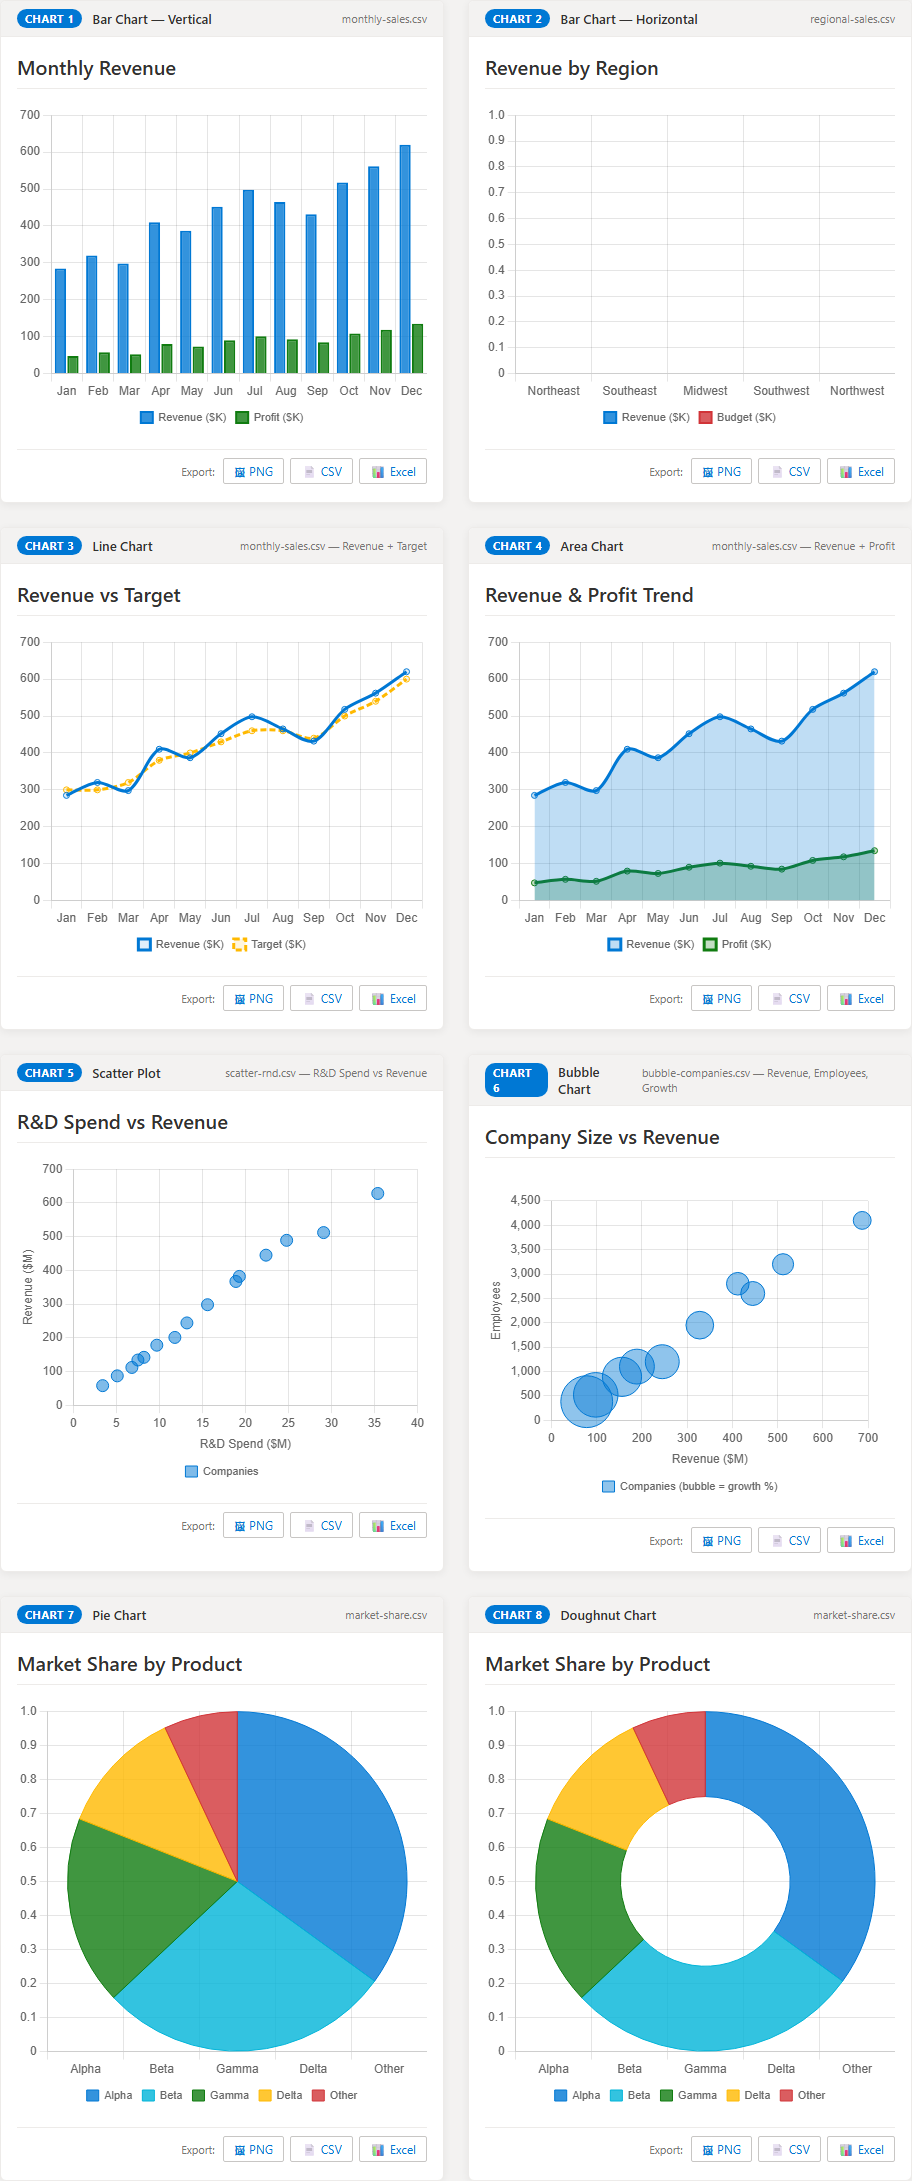
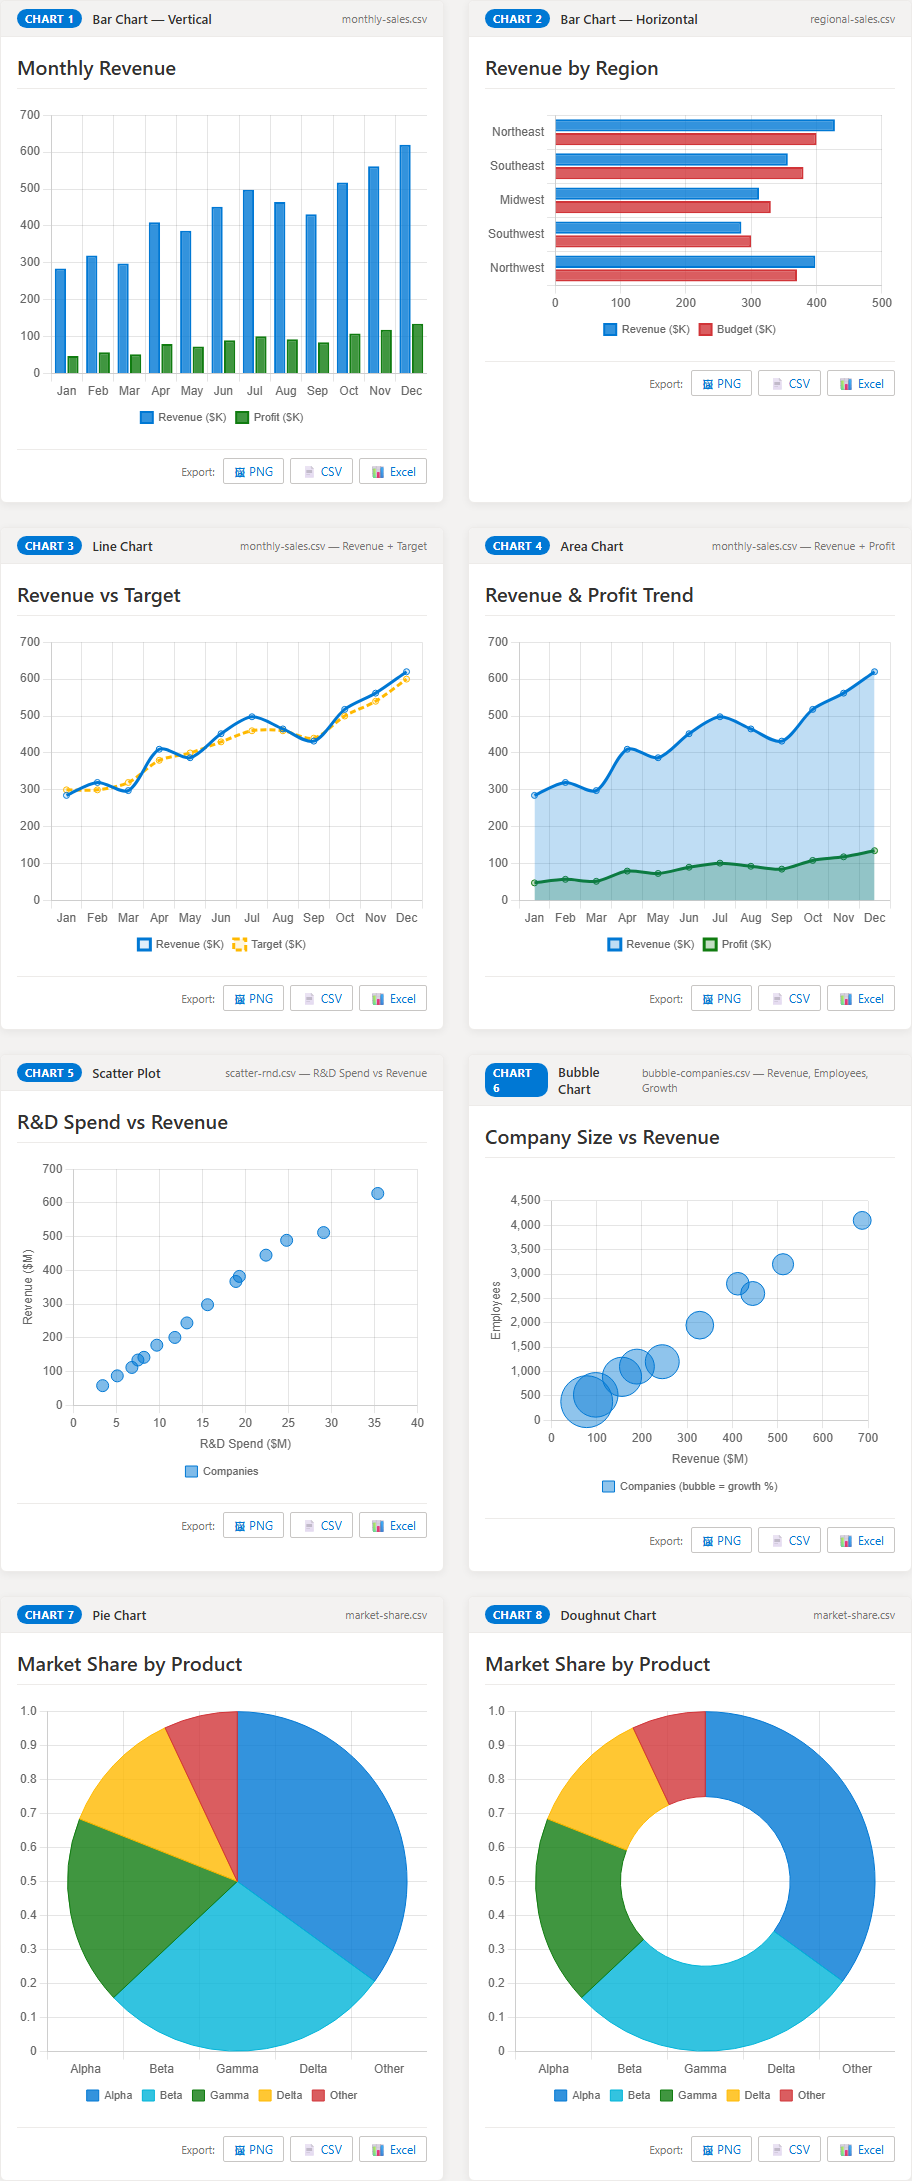
Updated screenshots & README

Changed region(s): [[0.5219, 0.0312, 0.9825, 0.2182], [0.5833, 0.1559, 0.614, 0.1871]]

diff --git a/mockups/screenshot-guide.html b/mockups/screenshot-guide.html
@@ -478,7 +478,7 @@
     </div>
     <div class="webpart">
       <div class="wp-header"><span class="wp-header-text">Revenue by Region</span></div>
-      <div class="chart-container"><canvas id="c-hbar" height="240"></canvas></div>
+      <div class="chart-container" style="position:relative;height:240px;"><canvas id="c-hbar"></canvas></div>
       <div class="export-bar">
         <span class="export-label">Export:</span>
         <button class="export-btn">🖼 PNG</button>
@@ -836,7 +836,16 @@ new Chart(document.getElementById('c-hbar'), {
       { label: 'Budget ($K)',  data: regBud, backgroundColor: c[4]+'cc', borderColor: c[4], borderWidth: 2 },
     ]
   },
-  options: { ...baseOpts, indexAxis: 'y' },
+  options: {
+    responsive: true,
+    maintainAspectRatio: false,
+    animation: false,
+    indexAxis: 'y',
+    plugins: {
+      legend: { position: 'bottom', labels: { boxWidth: 12, font: { size: 11 } } },
+      datalabels: { display: false },
+    },
+  },
 });
 
 // ─── Chart 3: Line ────────────────────────────────────────────────

diff --git a/README.md b/README.md
@@ -44,7 +44,18 @@ A SharePoint Framework (SPFx) web part that renders interactive charts from mult
 
 ---
 
-## Prerequisites
+## Installation (No Build Required)
+
+The pre-built package is included in the repository. To deploy without installing Node.js or building anything:
+
+1. Download `sharepoint/solution/smart-data-visualization.sppkg` from this repository.
+2. Upload it to your **SharePoint App Catalog** (SharePoint Admin Center → Advanced → App Catalog → Apps for SharePoint).
+3. Check **Make this solution available to all sites** and click **Deploy**.
+4. On any modern SharePoint page, click **Edit** → **+** → search for **Smart Data Visualization**.
+
+---
+
+## Prerequisites (for Development Only)
 
 - Node.js 18.x (LTS)
 - npm 8+